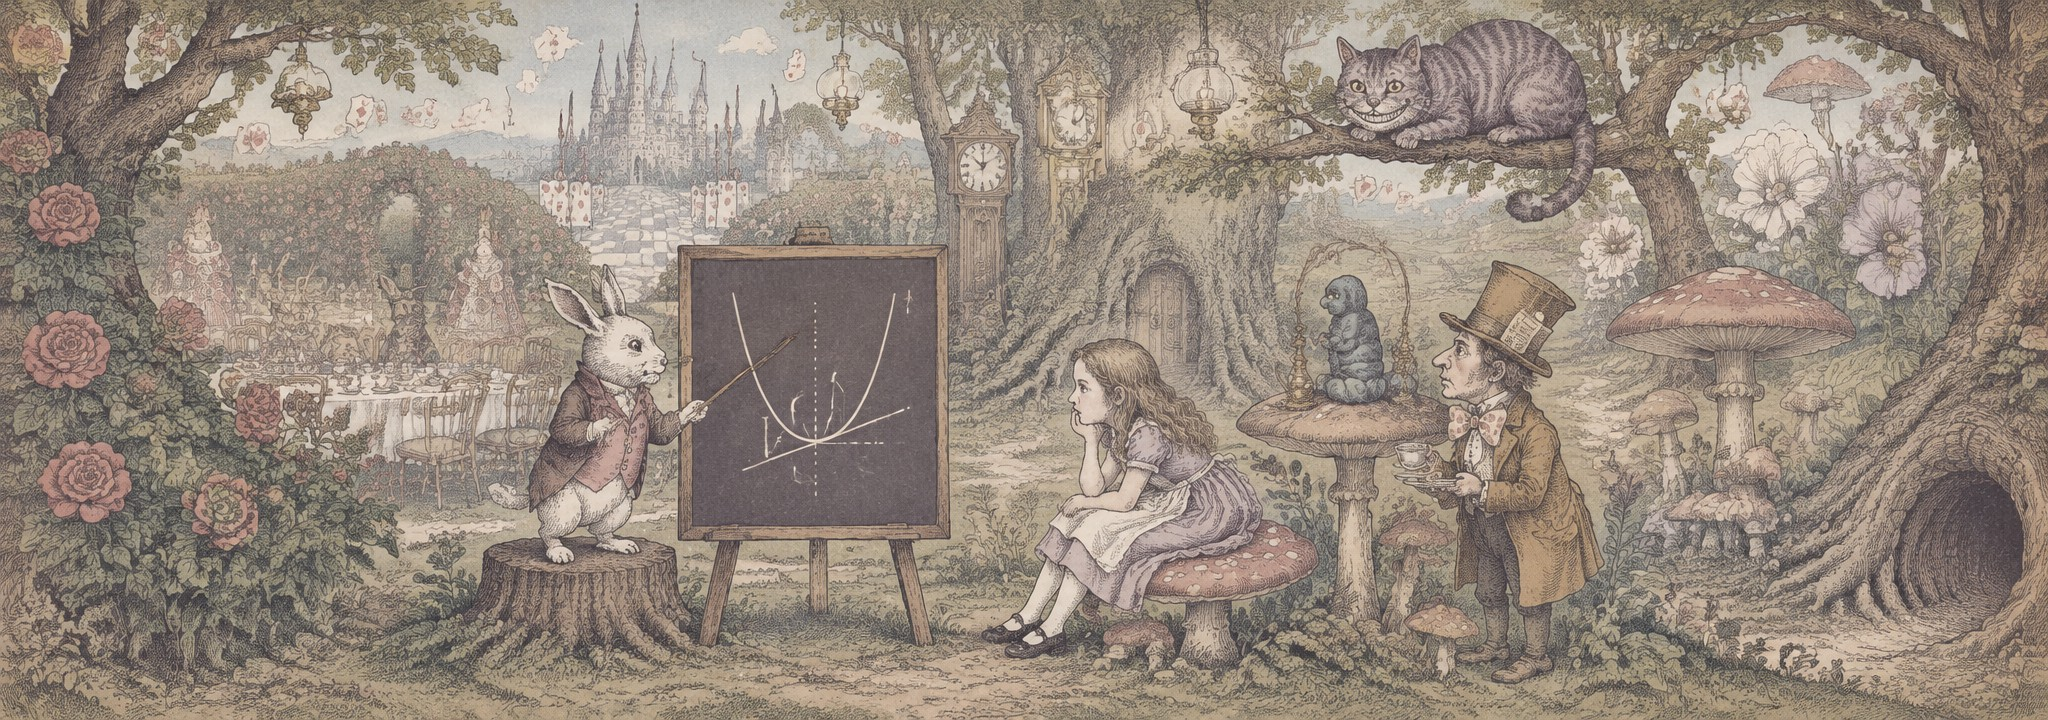
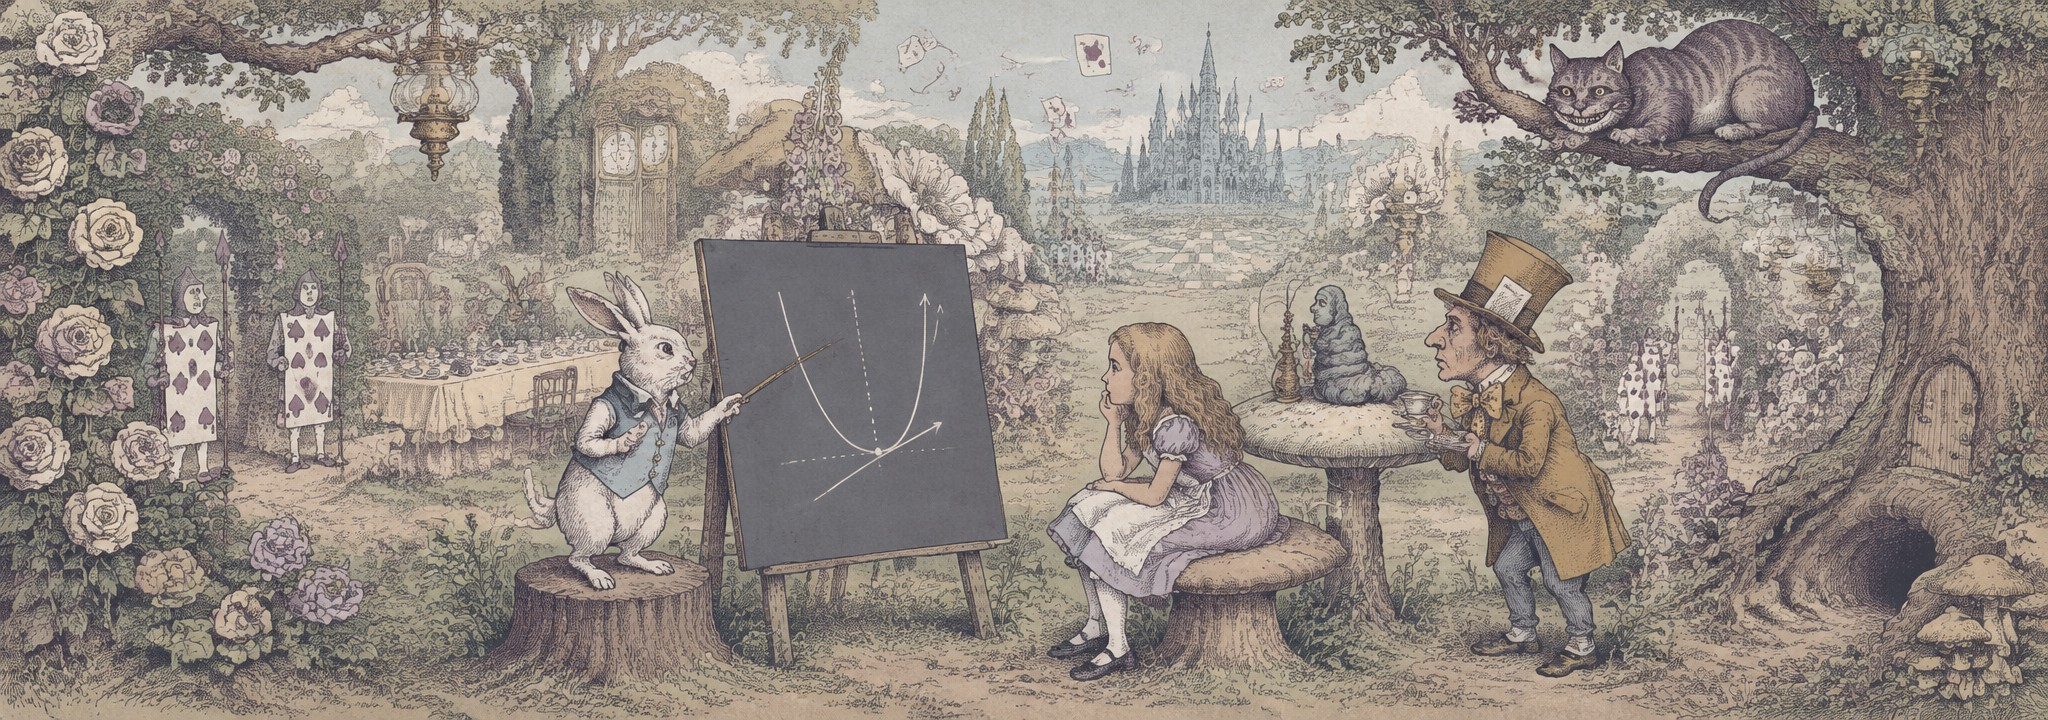
Blog: cooler /explain hero (powder blue, ochre, sage, lavender, less red); landing-art.mjs takes --palette; powder blue and ochre added to the hero palette; index heading reads Notes from the rabbit hole

diff --git a/packages/web/src/landing/blog-stories.css b/packages/web/src/landing/blog-stories.css
@@ -1,6 +1,6 @@
 .blog-page{--blog-ink:#482953;--blog-muted:#705378;--blog-line:#48295330;--blog-paper:#fff}
 /* Hero image palette (BLOG_IMAGE_GUIDE.md): every post hero image is drawn in these five colours. */
-.blog-page{--hero-paper:#F4F3EF;--hero-ink:#3D2A5C;--hero-plum:#8A7AA6;--hero-rose:#D9B8C4;--hero-sage:#B7C2B0}
+.blog-page{--hero-paper:#F4F3EF;--hero-ink:#3D2A5C;--hero-plum:#8A7AA6;--hero-rose:#D9B8C4;--hero-sage:#B7C2B0;--hero-blue:#A9BCCB;--hero-ochre:#D8C08C}
 .blog-page [hidden]{display:none!important}
 .blog-page .blog-articles{position:relative;z-index:1;max-width:1120px;padding:40px 0 80px;scroll-margin-top:112px}
 .blog-stories-heading{display:flex;align-items:baseline;justify-content:space-between;gap:24px;padding-bottom:24px;border-bottom:1px solid var(--blog-line)}

diff --git a/packages/web/design/rabbit-hole-blog.html b/packages/web/design/rabbit-hole-blog.html
@@ -43,7 +43,7 @@
     </div>
     <div class="blog-articles" id="stories" aria-labelledby="stories-heading">
       <div class="blog-stories-heading">
-        <h2 id="stories-heading">From the notebook.</h2>
+        <h2 id="stories-heading">Notes from the rabbit hole.</h2>
         <span id="blog-count"></span>
       </div>
       <ul class="cards blog-grid" id="blog-grid"></ul>

diff --git a/packages/web/design/art/explain-post-hero.prompt.md b/packages/web/design/art/explain-post-hero.prompt.md
@@ -4,4 +4,4 @@ Generated 2026-11-13 with GPT Image 2.5 Flare (gpt-image-2.5-flare, 2048x720) by
 
 ## Prompt
 
-Hand-drawn illustration in the style of a 19th-century book engraving, in the spirit of Tenniel's 1865 illustrations for Alice's Adventures in Wonderland and not the Disney designs, loose cross-hatching, slightly faded as if printed decades ago. A full panoramic Wonderland scene that fills the whole canvas edge to edge with no empty margins. In the foreground, grouped within the middle 55% of the width and all on one ground line: on the left, the White Rabbit in a waistcoat stands on a tree stump holding a long wooden pointer, lecturing, and gesturing at a large upright chalkboard on an easel beside him; the chalkboard shows a simple hand-drawn engraved diagram with no lettering and no numerals, only a smooth parabola with a straight tangent line touching it and a few small arrows and dotted lines; on the right, Alice in a plain dress and pinafore with her hair loose sits on a mushroom listening with her chin in her hand, looking at the board; the Caterpillar on a tall toadstool, smaller, and the Mad Hatter holding his teacup stand close by, both watching; the Cheshire Cat perched on a bough above them with its grin fully drawn. Behind them, a rich layered Wonderland receding into the distance, drawn in finer, lighter, fainter hatching so the foreground figures stand clearly forward: an overgrown garden of tall rose hedges and twisting old trees, a mad tea-party table set with teapots and cups, playing-card soldiers standing guard, giant mushrooms and oversized flowers, a grandfather clock among the trees, a tiny locked door at the foot of a great tree, hanging oil lamps, playing cards drifting through the air, and a distant castle with a checkerboard floor, with the dark mouth of a rabbit hole between tree roots near the right edge. Hand-coloured in soft, muted, washed-out watercolour tints laid over the ink line work, like a faded vintage hand-tinted book plate: pale sage and moss greens in the foliage, hedges and mushrooms, dusty rose on the roses and the White Rabbit's waistcoat, faded powder blue only in the sky and distant hills, warm muted ochre on the tea table and the Hatter's coat, pale lavender on Alice's plain dress (with a white pinafore, hair loose, no headband), soft grey-plum tabby stripes on the Cheshire Cat, muted red-brown on the toadstools and the playing cards, off-white paper #F4F3EF and deep plum ink #3D2A5C for the line work. Low saturation, low contrast, matte, subtle paper grain, no pure black and no pure white anywhere. No text, no lettering, no numbers anywhere. A very wide panoramic strip, about 2.85 times wider than tall (16:5.6): compose every figure, including the Cheshire Cat on its bough, and the whole scene inside this wide low frame, with nothing cropped.
+Hand-drawn illustration in the style of a 19th-century book engraving, in the spirit of Tenniel's 1865 illustrations for Alice's Adventures in Wonderland and not the Disney designs, loose cross-hatching, slightly faded as if printed decades ago. A full panoramic Wonderland scene that fills the whole canvas edge to edge with no empty margins. In the foreground, grouped within the middle 55% of the width and all on one ground line: on the left, the White Rabbit in a waistcoat stands on a tree stump holding a long wooden pointer, lecturing, and gesturing at a large upright chalkboard on an easel beside him; the chalkboard shows a simple hand-drawn engraved diagram with no lettering and no numerals, only a smooth parabola with a straight tangent line touching it and a few small arrows and dotted lines; on the right, Alice in a plain dress and pinafore with her hair loose sits on a mushroom listening with her chin in her hand, looking at the board; the Caterpillar on a tall toadstool, smaller, and the Mad Hatter holding his teacup stand close by, both watching; the Cheshire Cat perched on a bough above them with its grin fully drawn. Behind them, a rich layered Wonderland receding into the distance, drawn in finer, lighter, fainter hatching so the foreground figures stand clearly forward: an overgrown garden of tall rose hedges and twisting old trees, a mad tea-party table set with teapots and cups, playing-card soldiers standing guard, giant mushrooms and oversized flowers, a grandfather clock among the trees, a tiny locked door at the foot of a great tree, hanging oil lamps, playing cards drifting through the air, and a distant castle with a checkerboard floor, with the dark mouth of a rabbit hole between tree roots near the right edge. Hand-coloured in soft, muted, washed-out watercolour tints laid over the ink line work, like a faded vintage hand-tinted book plate: pale sage and moss greens in the foliage and hedges, cream-white roses shaded with pale plum, soft powder blue (#A9BCCB) on the White Rabbit's waistcoat and across the sky and distant hills, warm muted ochre (#D8C08C) on the tea table, the mushroom caps and the Hatter's coat, pale lavender on Alice's plain dress (with a white pinafore, hair loose, no headband), soft grey-plum tabby stripes on the Cheshire Cat, cream and pale sage on the toadstools, the playing cards drawn in plum ink with at most a faint touch of dusty rose, the chalkboard a faded slate blue-grey with pale chalk lines; no red and no strong pink anywhere, off-white paper #F4F3EF and deep plum ink #3D2A5C for the line work. Low saturation, low contrast, matte, subtle paper grain, no pure black and no pure white anywhere. No text, no lettering, no numbers anywhere. A very wide panoramic strip, about 2.85 times wider than tall (16:5.6): compose every figure, including the Cheshire Cat on its bough, and the whole scene inside this wide low frame, with nothing cropped.

diff --git a/packages/web/src/landing/BLOG_IMAGE_GUIDE.md b/packages/web/src/landing/BLOG_IMAGE_GUIDE.md
@@ -15,6 +15,8 @@ Defined once as CSS variables on `.blog-page` in `blog-stories.css`.
 | `--hero-plum` | plum | `#8A7AA6` | shading, secondary shapes |
 | `--hero-rose` | rose | `#D9B8C4` | one accent per image, at most |
 | `--hero-sage` | sage | `#B7C2B0` | optional second accent |
+| `--hero-blue` | powder blue | `#A9BCCB` | sky, water, cool coats; added 2026-11-13 so an image need not lean on rose |
+| `--hero-ochre` | ochre | `#D8C08C` | warm tables, caps, coats; added 2026-11-13 |
 
 No pure black or white anywhere in a hero image.
 
